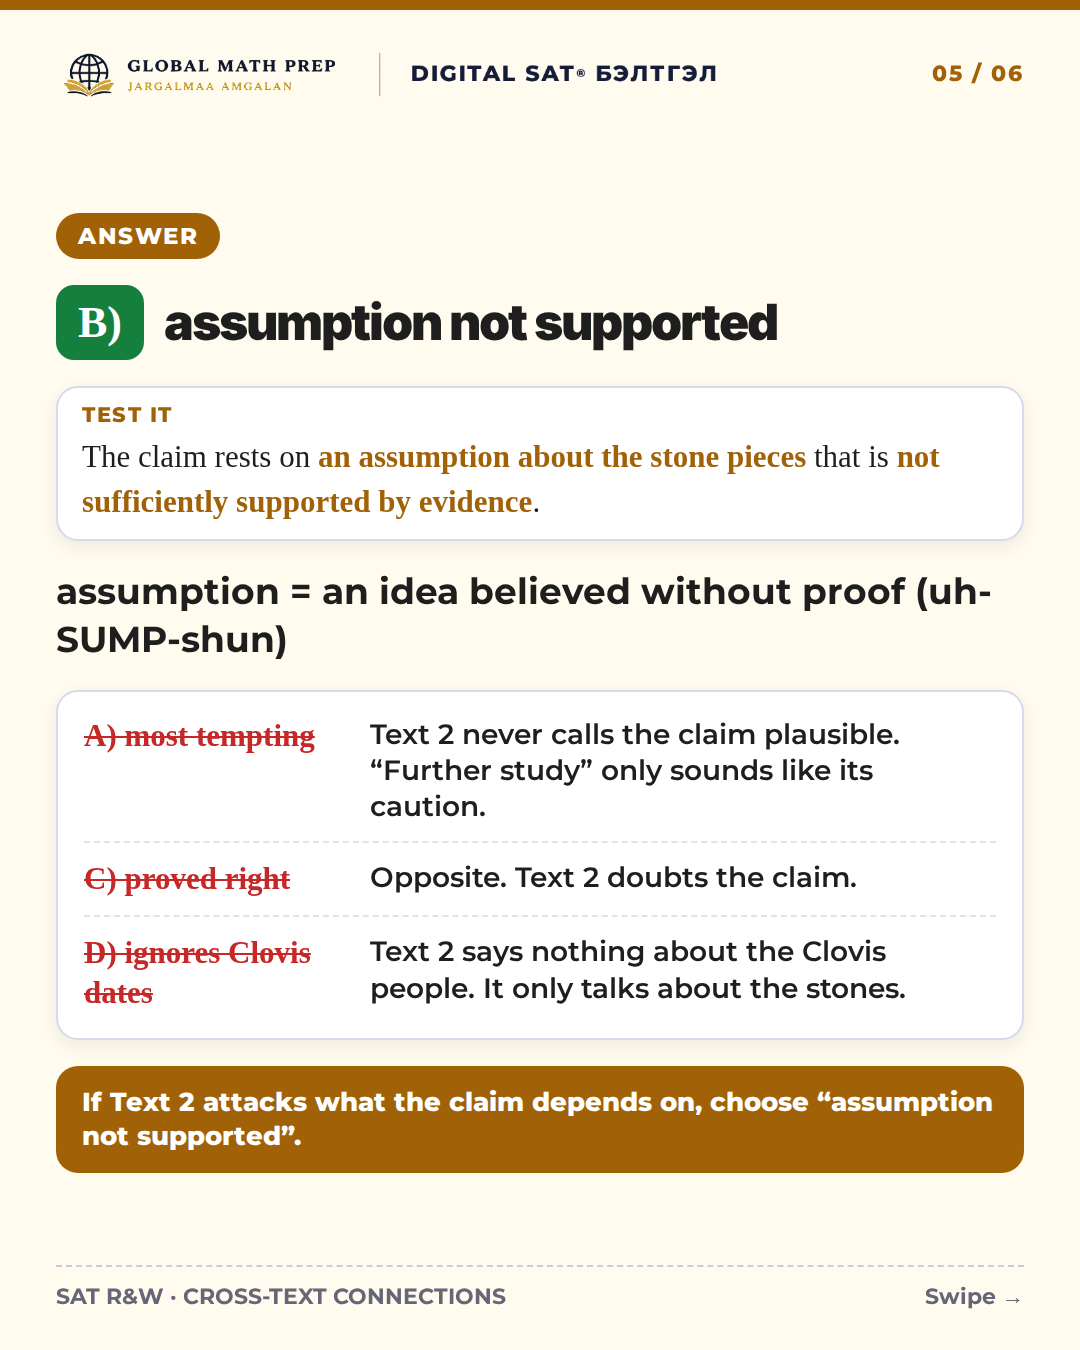
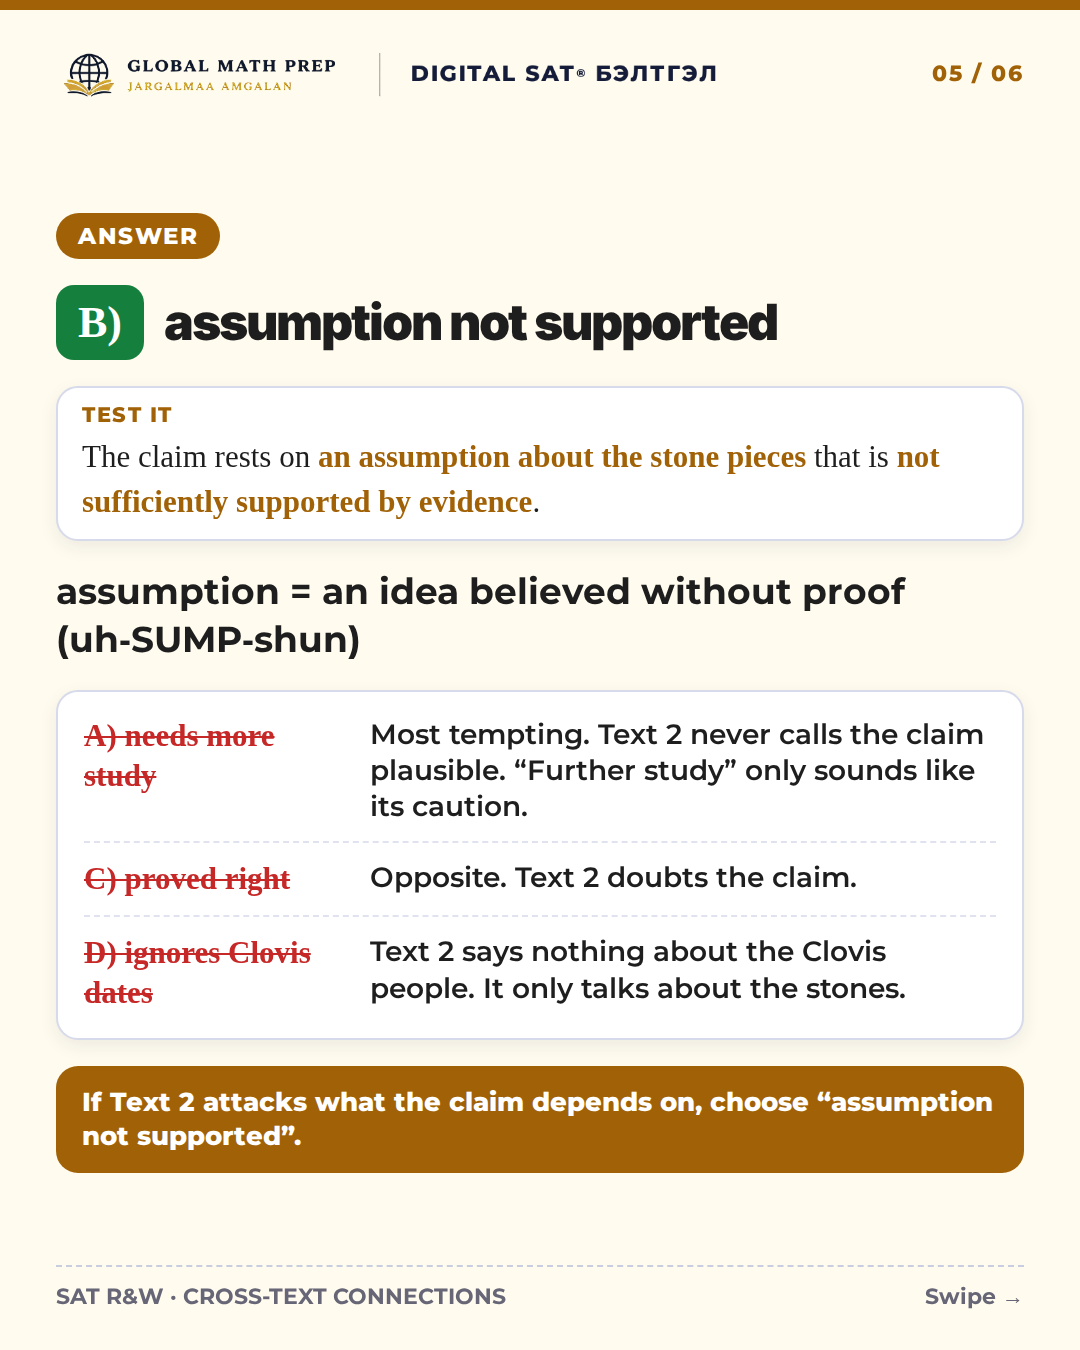
Audit fixes for four SAT explainer carousels
Claude-Session: https://claude.ai/code/session_01FLPzALAJUoveurDTsvCi1K

diff --git a/tools/v2/gen37.py b/tools/v2/gen37.py
@@ -99,7 +99,7 @@ def mk_neander():
       '<span class="blue">One claim.</span><br>Strong<br>or weak?', 'One word decides it. Look at what the author ignores.', '1f9d0',
       'The author’s claim about the relationship between Neanderthals and Homo sapiens is ______, as it fails to account for several recent archaeological discoveries. To be convincing, his argument would need to address recent finds of additional hominid fossils, such as the latest Denisovan specimens and Homo longi.',
       ['disorienting', 'tenuous', 'nuanced', 'unoriginal'],
-      'The author’s claim about the relationship between Neanderthals and Homo sapiens is ______, as <span class="hk">it fails to account for</span> several recent archaeological discoveries. <span class="hk">To be convincing</span>, his argument <span class="hk">would need to address</span> recent finds of additional hominid fossils.',
+      'The author’s claim about the relationship between Neanderthals and Homo sapiens is ______, as <span class="hk">it fails to account for</span> several recent archaeological discoveries. <span class="hk">To be convincing</span>, his argument <span class="hk">would need to address</span> recent finds of additional hominid fossils, such as the latest Denisovan specimens and Homo longi.',
       [('fails to account for', 'The claim leaves out evidence.'), ('To be convincing, ... would need to', 'Right now it is not convincing.'), ('recent finds of additional hominid fossils', 'New evidence the claim ignores.')],
       'Negative clues, so the blank must be negative: the claim is weak.',
       'B) tenuous', '= weak', 'Say it: <b>TEN-yoo-us</b>. It means weak, not well supported by evidence.',
@@ -121,7 +121,7 @@ def mk_state():
       'C) overshadowed by', '= less important than', 'Say it: <b>OH-ver-shad-ohd</b>. Made to seem less important than something bigger.',
       'State taxes are <b>overshadowed by</b> other factors when considering an interstate move.',
       ['Think of a small tree in the shadow of a big one.', 'Similar: outweighed by · less important than', 'Opposite: more important than'],
-      [('D) irrelevant to', 'i-REL-uh-vunt', 'not connected to', '“Almost no effect” is not zero, so taxes are less important, not unimportant. The blank also links taxes to the other factors, which does not fit.', 'His age is irrelevant to the job.', True),
+      [('D) irrelevant to', 'i-REL-uh-vunt', 'not connected to', '“Almost no effect” is not zero, so taxes are less important, not unimportant. Taxes are unimportant to people’s decisions, not to the other factors.', 'His age is irrelevant to the job.', True),
        ('A) consistent with', 'kun-SIS-tunt', 'in agreement with', 'Taxes and the other factors are contrasted, not in agreement.', 'His story is consistent with the facts.'),
        ('B) representative of', 'rep-ri-ZEN-tuh-tiv', 'a typical example of', 'Taxes are not an example of jobs, housing or climate.', 'This painting is representative of her style.')],
       '“almost no” is not “no”. Avoid choices that are too extreme.')
@@ -138,7 +138,7 @@ def mk_john():
 <div class="lead" style="font-size:26px;font-style:italic">The following text is adapted from Zora Neale Hurston’s 1921 short story “John Redding Goes to Sea.” John is a child who lives in a town in the woods.</div>
 {tx('JOB 1 · THE DREAMER', s1)}{tx('JOB 2 · THE PLACE', s24)}{tx('JOB 3 · THE WISH (UNDERLINED)', '<span class="ul">' + s5 + '</span>')}"""
     ch = ['It provides an extended description of a location that John likes to visit.', 'It reveals that some residents of John’s town are confused by his behavior.', 'It illustrates the uniqueness of John’s imagination compared to the imaginations of other children.', 'It suggests that John longs to experience a larger life outside the Florida woods.']
-    fr = frame(1, '<span style="font-size:27px;line-height:1.5;display:block"><i>Underlined sentence, Job 3:</i><br><u style="text-decoration-thickness:3px;text-underline-offset:4px">' + s5 + '</u></span>', ch, prompt='Which choice best describes the function of the underlined sentence in the text as a whole?')
+    fr = frame(1, '<span style="font-size:27px;line-height:1.5;display:block"><i>Underlined sentence:</i><br><u style="text-decoration-thickness:3px;text-underline-offset:4px">' + s5 + '</u></span>', ch, prompt='Which choice best describes the function of the underlined sentence in the text as a whole?')
     p3 = qslide(fr, 'What job does the underlined sentence do? Decide, then swipe.')
     p3 = p3.replace('class="bxc"', 'class="bxc" style="font-size:25px"')
     cl = [('watch them sail away … to Jacksonville, the sea, the wide world', 'The places get bigger and farther away.'), ('wanted to follow them', 'He wishes to go too.'), ('fond of day-dreams (Sentence 1)', 'He already dreams about other places.')]
@@ -147,7 +147,7 @@ def mk_john():
 <div class="card" style="padding:6px 24px">{cluerows(cl).replace('width:330px','width:330px')}</div>
 <div class="card" style="padding:14px 24px"><div class="lab">WORD CARD · LONGS</div><div style="font-size:27px;font-weight:700;color:#334;line-height:1.4">Say it: LONGZ. Wishes very much for something.<br>Similar: yearns · wishes · dreams of</div></div>'''
     p5 = f'''<div class="pill">WHY THE OTHERS ARE WRONG</div><div class="h" style="font-size:64px">Why not <span class="blue">A, B, C?</span></div>
-{vc('A) extended description', '', '', 'The place is described in Sentences 2 to 4. Sentence 5 says what John does there and what he wants. It mentions the water’s edge, so students pick it.', '', True)}
+{vc('A) extended description', '', '', 'The place is described in Sentences 2 to 4. Sentence 5 says what John does there and what he wants. It mentions the water’s edge, so many students pick it.', '', True)}
 {vc('B) residents are confused', '', '', 'This idea appears only in Sentence 1 (“puzzling to the folk”).', '')}
 {vc('C) imagination is unique', '', '', 'No other children appear in the text, so nothing is compared.', '')}'''
     return dict(key='John-Redding', prefix='GMP-TextStructure', AC=AC, SOFT=SOFT, TINT=TINT, nxt='New', pages=[p1, p2, p3, p4, p5, endp()], foot='TEXT STRUCTURE AND PURPOSE')
@@ -172,10 +172,10 @@ def mk_chiq():
 <div class="lead" style="font-size:30px">Text 2: “it is <span class="hk">premature</span> to characterize them as tools.” Premature means too early, before there is enough proof.</div>
 <div class="card" style="padding:6px 24px">{cluerows(cl)}</div>
 <div class="rule" style="font-size:27px">Text 2 attacks the base: are the stones tools at all?</div>'''
-    wr = ''.join(f'<div class="wr"><span class="w">{a}</span><span>{b}</span></div>' for a, b in [('A) most tempting', 'Text 2 never calls the claim plausible. “Further study” only sounds like its caution.'), ('C) proved right', 'Opposite. Text 2 doubts the claim.'), ('D) ignores Clovis dates', 'Text 2 says nothing about the Clovis people. It only talks about the stones.')])
+    wr = ''.join(f'<div class="wr"><span class="w">{a}</span><span>{b}</span></div>' for a, b in [('A) needs more study', 'Most tempting. Text 2 never calls the claim plausible. “Further study” only sounds like its caution.'), ('C) proved right', 'Opposite. Text 2 doubts the claim.'), ('D) ignores Clovis dates', 'Text 2 says nothing about the Clovis people. It only talks about the stones.')])
     p5 = f'''<div class="pill">ANSWER</div><div class="okrow"><div class="ok">B)</div><div class="h" style="font-size:50px">assumption not supported</div></div>
 <div class="card" style="padding:14px 24px"><div class="lab">TEST IT</div><div class="sen" style="font-size:31px">The claim rests on <b>an assumption about the stone pieces</b> that is <b>not sufficiently supported by evidence</b>.</div></div>
-<div class="lead" style="font-size:27px">assumption = an idea believed without proof (uh-SUMP-shun)</div>
+<div class="lead" style="font-size:27px">assumption = an idea believed without proof (uh&#8209;SUMP&#8209;shun)</div>
 <div class="card" style="padding:8px 26px">{wr}</div>
 <div class="rule" style="font-size:26px">If Text 2 attacks what the claim depends on, choose “assumption not supported”.</div>'''
     return dict(key='Chiquihuite', prefix='GMP-CrossText', AC=AC, SOFT=SOFT, TINT=TINT, nxt='New', pages=[p1, p2, p3, p4, p5, endp()], foot='CROSS-TEXT CONNECTIONS')
